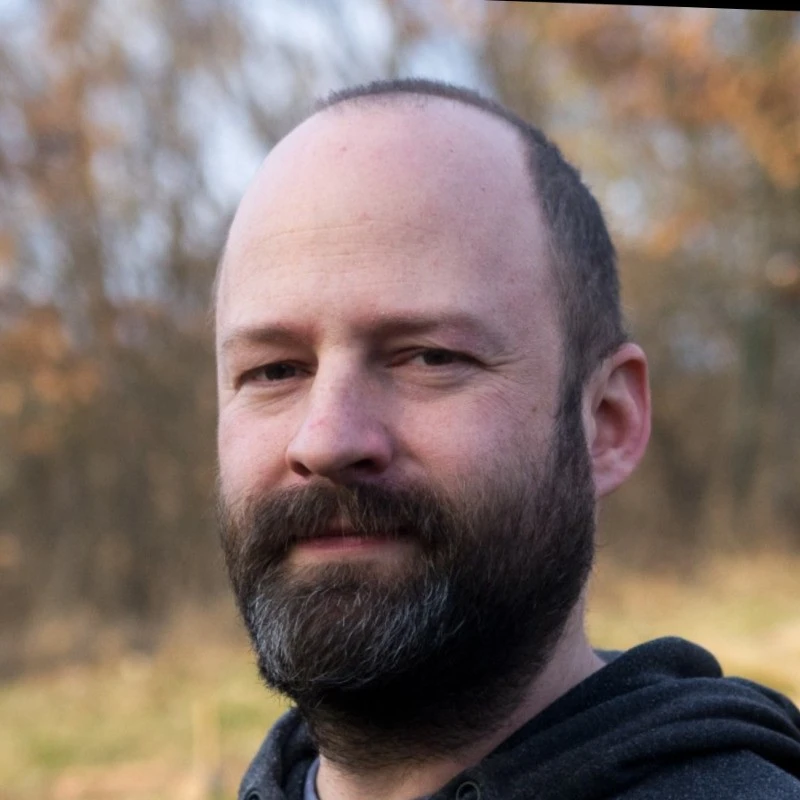
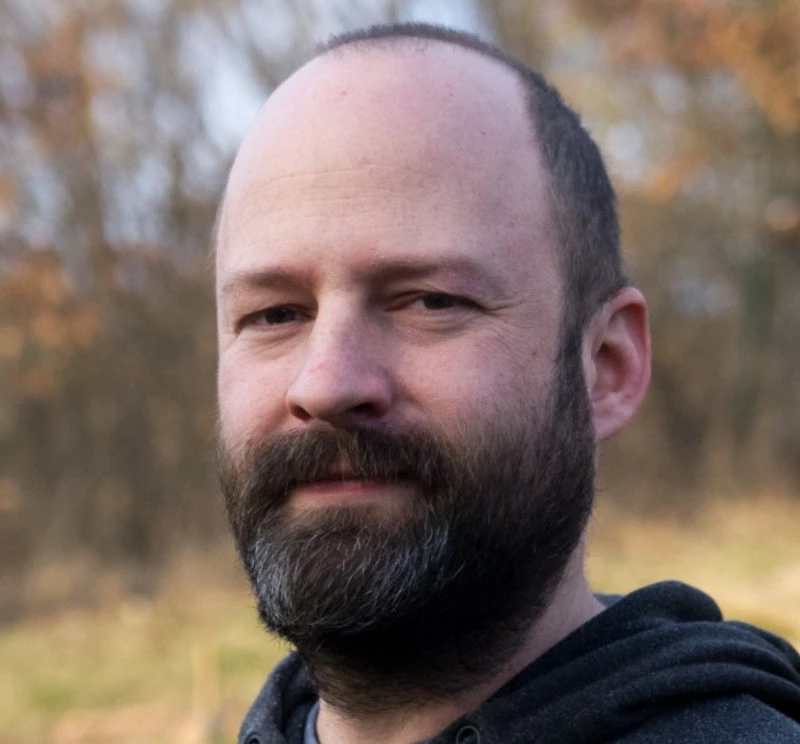
update the core team including photos

diff --git a/sass/main.scss b/sass/main.scss
@@ -270,6 +270,7 @@ article {
       border-radius: 50%;
       background: $cloud-dancer;
       object-fit: cover;
+      object-position: top center;
       border: 2px solid $bright-lapis;
       margin-bottom: 0.75rem;
     }

diff --git a/content/lektori/kiki.md b/content/lektori/kiki.md
@@ -2,7 +2,7 @@
 title = "Kristýna Šavrdová"
 
 [extra]
-bio = "Lektorka vyjednávání a komunikace, která pomáhá učitelům i studentům jasně a účinně komunikovat, vyjednávat a zvládat konflikty."
+bio = "Zakladatelka projektu a lektorka, která pomáhá učitelům i studentům komunikovat, vyjednávat a zvládat konflikty."
 +++
 
 Lektorka vyjednávání a komunikace, která pomáhá učitelům i studentům jasně a účinně komunikovat, vyjednávat a zvládat konflikty.

diff --git a/content/lektori/grumpy.md b/content/lektori/grumpy.md
@@ -1,8 +1,8 @@
 +++
-title = "Pavel „Grumpy“ Šimerda"
+title = "Pavel Šimerda"
 
 [extra]
-bio = "Lektor technických dovedností a programování, který učí logické myšlení a reálné technologie způsobem, který osloví jak studenty, tak učitele."
+bio = "Jako vedoucí lektor se stará o nově vznikající lektorský tým a zajišťuje technologické zázemí celého projektu."
 +++
 
 Jsem programátor, který se celý život zabývá vzděláváním a výukovými

diff --git a/content/lektori/slavka.md b/content/lektori/slavka.md
@@ -2,7 +2,7 @@
 title = "Michal Ševčík"
 
 [extra]
-bio = "Michal věří, že škola může být místem, kam se těší učitel i student. Pomáhá učitelům hledat nové cesty, jak vést hodiny, které baví obě strany."
+bio = "Přináší zkušenost studenta, který věří, že do školy se můžou těšit všichni zúčastnění. Pomáhá učitelům hledat nové cesty."
 +++
 
 Jsem Michal, na základní škole jsem zažil ukázku toho, jak výuka a

diff --git a/content/_index.md b/content/_index.md
@@ -2,7 +2,7 @@
 title = "Lektoři"
 +++
 
-## Přinášíme kurzy inovativního vzdělávání
+## Pomáháme zlepšit vzdělávání v Česku
 
 **Studenti. Odborníci. Pedagogové.** Náš tým spojuje rozdílné pohledy na
 vzdělávání – od studentské zvídavosti přes odborné know‑how až po

diff --git a/content/lektori/_index.md b/content/lektori/_index.md
@@ -3,5 +3,5 @@ title = "Lecturers"
 page_template = "lecturer.html"
 
 [extra]
-lecturers = ["kiki", "slavka", ""]
+lecturers = ["kiki", "slavka", "grumpy"]
 +++
